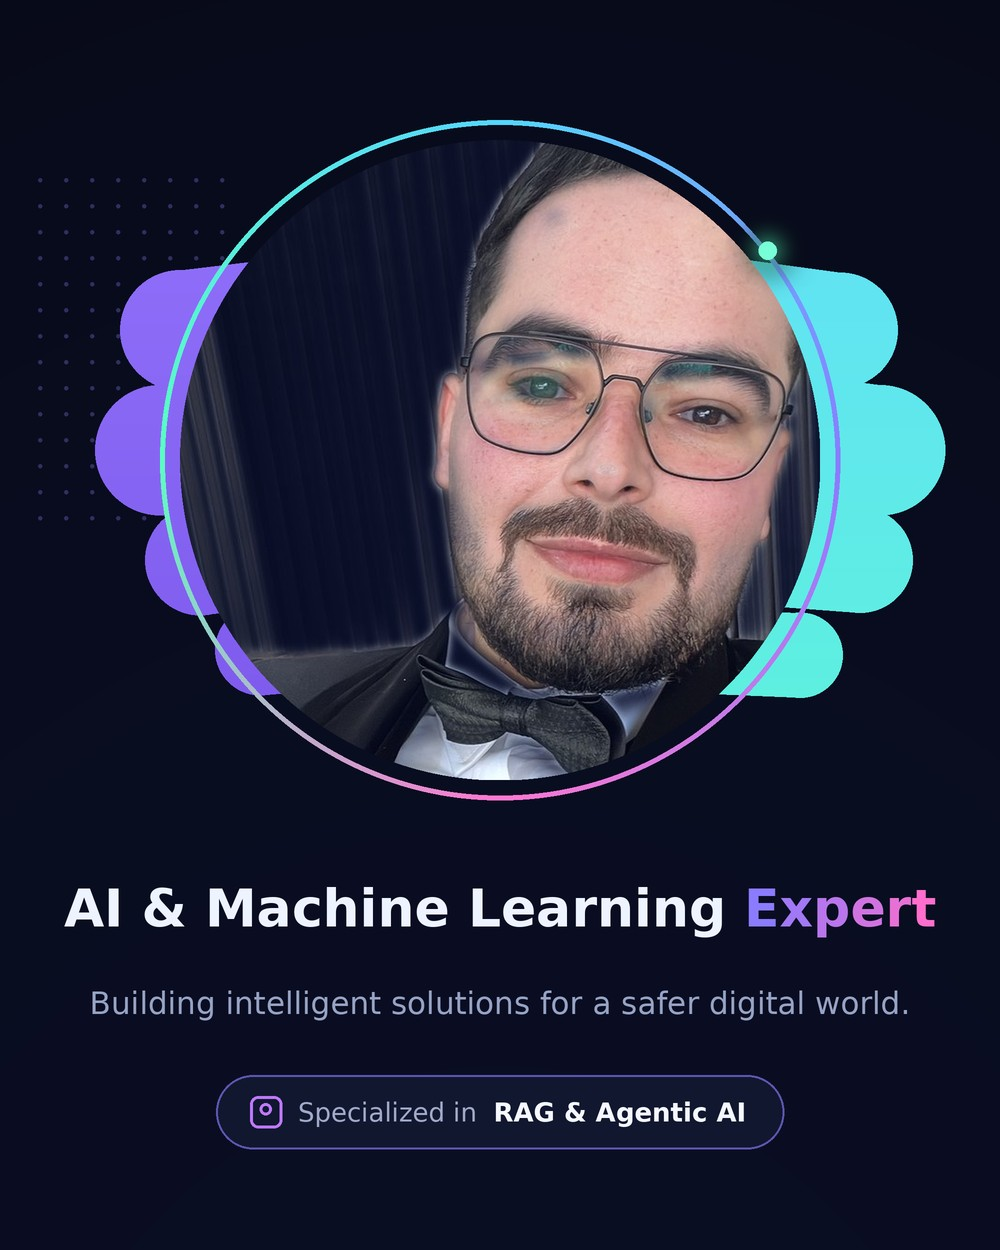
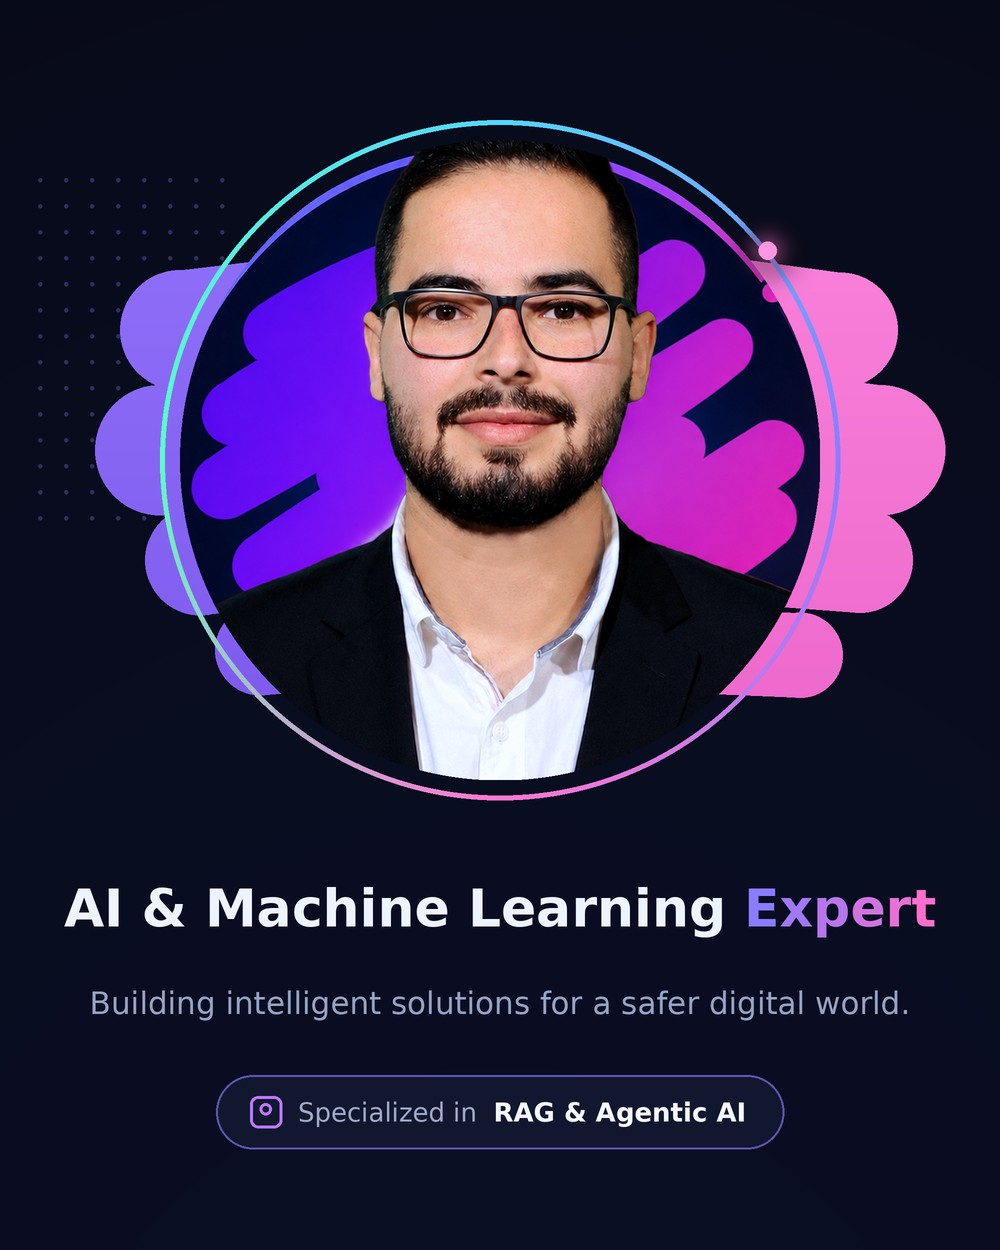
Use studio portrait in the About card
Swapped the card's circular portrait to the studio headshot from
Myprofile.png, matched the right blob to its pink accent, and added a
cache-busting query to the image URL.

Changed region(s): [[0.155, 0.0936, 0.961, 0.624]]

diff --git a/index.html b/index.html
@@ -94,7 +94,7 @@
       <div class="about__grid">
         <div class="about__photo reveal" data-tilt>
           <div class="holo-frame">
-            <img src="assets/photo.jpg" alt="Samer Albardan" loading="lazy" />
+            <img src="assets/photo.jpg?v=2" alt="Samer Albardan" loading="lazy" />
             <div class="holo-frame__scan"></div>
             <div class="holo-frame__corner tl"></div><div class="holo-frame__corner tr"></div>
             <div class="holo-frame__corner bl"></div><div class="holo-frame__corner br"></div>
